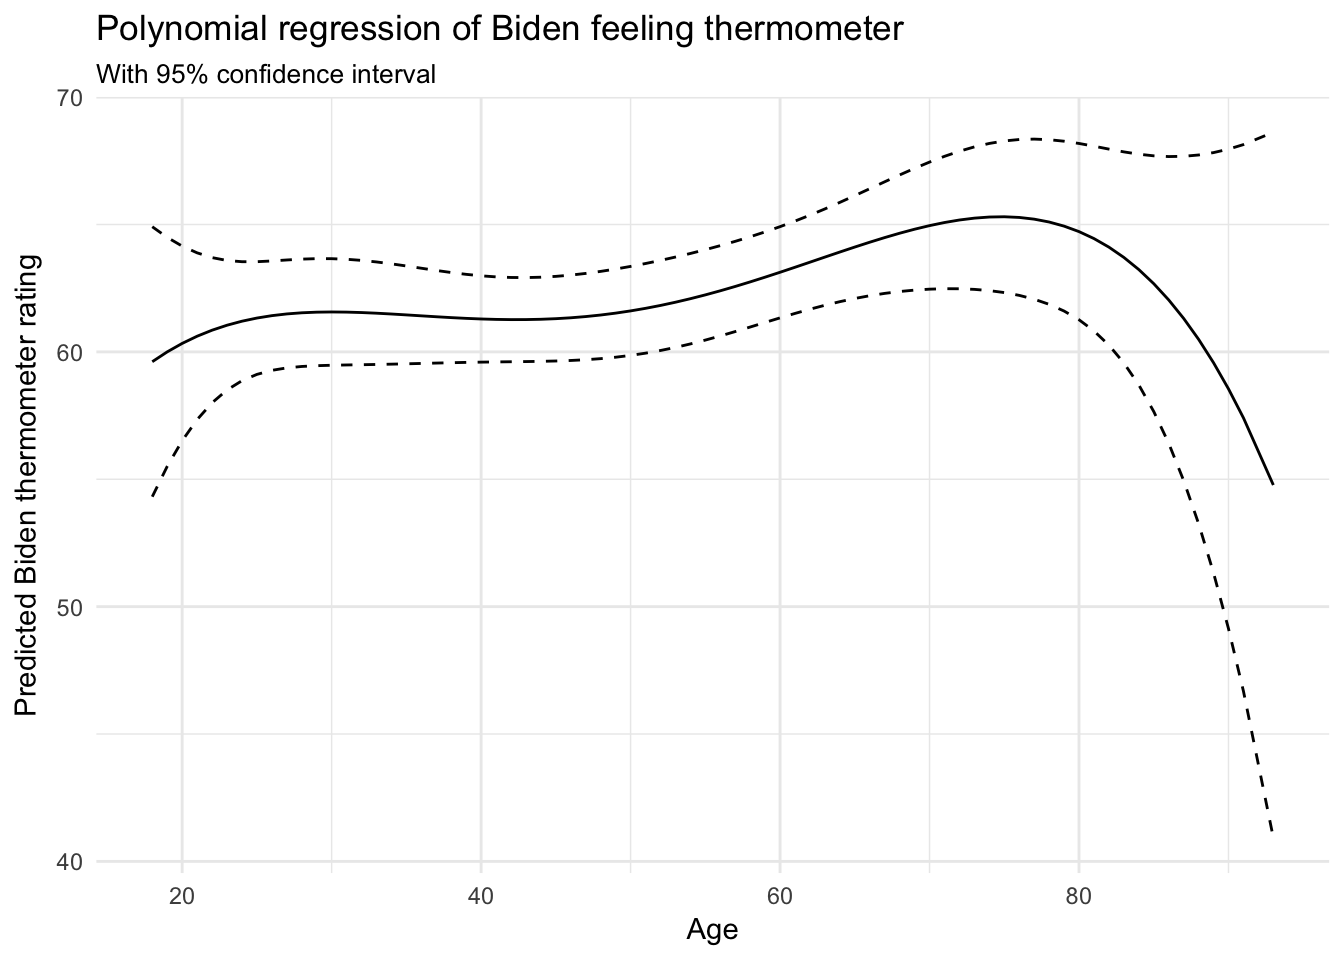
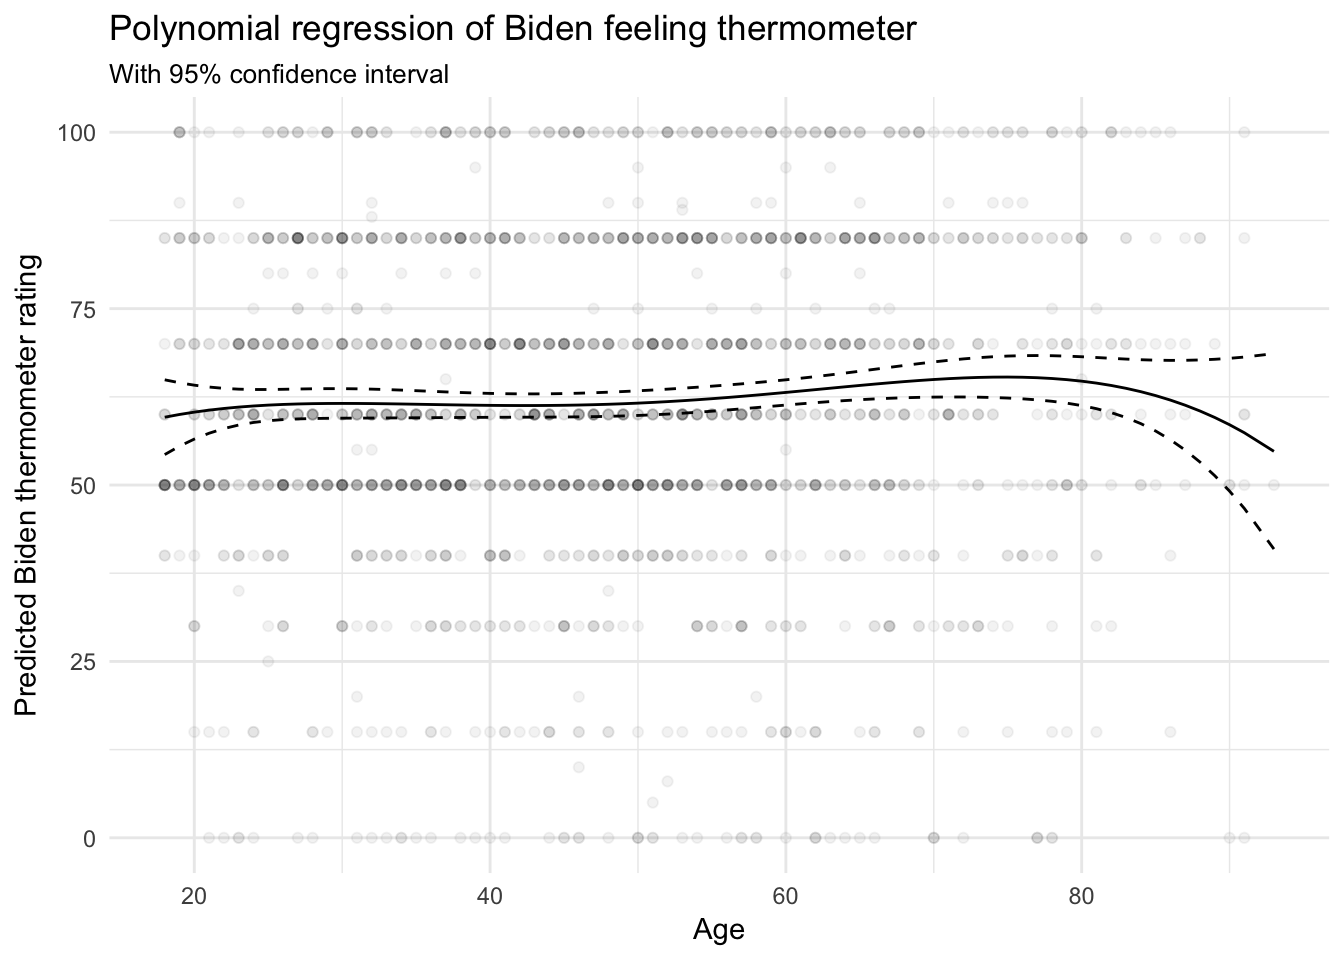
Add step functions

diff --git a/persp007_nonlinear.html b/persp007_nonlinear.html
@@ -661,15 +661,13 @@ biden_age &lt;-<span class="st"> </span><span class="kw">glm</span>(biden ~<span
 ## 4    I(age^3)  1.22e-03  9.76e-04      1.25   0.211
 ## 5    I(age^4) -6.22e-06  4.64e-06     -1.34   0.180</code></pre>
 <div class="sourceCode"><pre class="sourceCode r"><code class="sourceCode r"><span class="co"># estimate the predicted values and confidence interval</span>
-biden_pred &lt;-<span class="st"> </span>biden %&gt;%
-<span class="st">  </span><span class="kw">data_grid</span>(age)
-
-biden_pred &lt;-<span class="st"> </span><span class="kw">augment</span>(biden_age, <span class="dt">newdata =</span> biden_pred) %&gt;%
+biden_pred &lt;-<span class="st"> </span><span class="kw">augment</span>(biden_age, <span class="dt">newdata =</span> <span class="kw">data_grid</span>(biden, age)) %&gt;%
 <span class="st">  </span><span class="kw">mutate</span>(<span class="dt">pred_low =</span> .fitted -<span class="st"> </span><span class="fl">1.96</span> *<span class="st"> </span>.se.fit,
          <span class="dt">pred_high =</span> .fitted +<span class="st"> </span><span class="fl">1.96</span> *<span class="st"> </span>.se.fit)
 
 <span class="co"># plot the curve</span>
 <span class="kw">ggplot</span>(biden_pred, <span class="kw">aes</span>(age)) +
+<span class="st">  </span><span class="kw">geom_point</span>(<span class="dt">data =</span> biden, <span class="kw">aes</span>(age, biden), <span class="dt">alpha =</span> .<span class="dv">05</span>) +
 <span class="st">  </span><span class="kw">geom_line</span>(<span class="kw">aes</span>(<span class="dt">y =</span> .fitted)) +
 <span class="st">  </span><span class="kw">geom_line</span>(<span class="kw">aes</span>(<span class="dt">y =</span> pred_low), <span class="dt">linetype =</span> <span class="dv">2</span>) +
 <span class="st">  </span><span class="kw">geom_line</span>(<span class="kw">aes</span>(<span class="dt">y =</span> pred_high), <span class="dt">linetype =</span> <span class="dv">2</span>) +
@@ -789,14 +787,44 @@ mh_pred %&gt;%
 </div>
 </div>
 </div>
-<div id="log-transformations-1" class="section level1">
-<h1>Log transformations</h1>
-</div>
 <div id="step-functions" class="section level1">
 <h1>Step functions</h1>
+<p>Monotonic transformations impose a <strong>global</strong> structure on the non-linear function of <span class="math inline">\(X\)</span>. That is, the function applies across the entire range of <span class="math inline">\(X\)</span>. Instead, we may believe that the non-linear behavior of <span class="math inline">\(X\)</span> is instead a <strong>local</strong> structure that varies across the range of <span class="math inline">\(X\)</span>. We can use <strong>step functions</strong> to avoid imposing a global structure. In step functions, you split the predictor <span class="math inline">\(X\)</span> into <strong>bins</strong> and fit a different constant to each bin. This converts a continuous variable into an <strong>ordered categorical variable</strong>.</p>
+<p>We create <span class="math inline">\(c_1, c_2, \dots, c_K\)</span> cutpoints in the range of <span class="math inline">\(X\)</span>, and construct <span class="math inline">\(K + 1\)</span> new variables <span class="math inline">\(C_1(X), C_2(X), \dots, C_K(X)\)</span>. Each of the new variables is an <strong>indicator</strong> or <strong>dummy</strong> variable that returns a 1 if <span class="math inline">\(x_i\)</span> falls within the range of the cutpoints and 0 otherwise. For any given <span class="math inline">\(x_i\)</span>, the sum of these variables will be precisely <span class="math inline">\(1\)</span>. We can then fit the linear regression model to the new indicator variables as predictors:</p>
+<p><span class="math display">\[y_i = \beta_0 + \beta_1 C_1 (x_i) + \beta_2 C_2 (x_i) + \dots + \beta_K C_K (x_i) + \epsilon_i\]</span></p>
+<div id="biden-and-age-1" class="section level2">
+<h2>Biden and age</h2>
+<p>We can fit a piecewise constant regression to the Biden data, dividing age into 5 bins.</p>
+<div class="sourceCode"><pre class="sourceCode r"><code class="sourceCode r"><span class="co"># estimate model</span>
+biden_step &lt;-<span class="st"> </span><span class="kw">glm</span>(biden ~<span class="st"> </span><span class="kw">cut</span>(age, <span class="dv">5</span>), <span class="dt">data =</span> biden)
+<span class="kw">tidy</span>(biden_step)</code></pre></div>
+<pre><code>##                   term estimate std.error statistic p.value
+## 1          (Intercept)    61.68      1.11    55.369   0.000
+## 2   cut(age, 5)(33,48]    -1.28      1.52    -0.841   0.400
+## 3   cut(age, 5)(48,63]     1.32      1.52     0.869   0.385
+## 4   cut(age, 5)(63,78]     2.22      1.82     1.221   0.222
+## 5 cut(age, 5)(78,93.1]     3.59      2.91     1.232   0.218</code></pre>
+<div class="sourceCode"><pre class="sourceCode r"><code class="sourceCode r"><span class="co"># estimate the predicted values and confidence interval</span>
+biden_step_pred &lt;-<span class="st"> </span><span class="kw">augment</span>(biden_step, <span class="dt">newdata =</span> <span class="kw">data_grid</span>(biden, age)) %&gt;%
+<span class="st">  </span><span class="kw">mutate</span>(<span class="dt">pred_low =</span> .fitted -<span class="st"> </span><span class="fl">1.96</span> *<span class="st"> </span>.se.fit,
+         <span class="dt">pred_high =</span> .fitted +<span class="st"> </span><span class="fl">1.96</span> *<span class="st"> </span>.se.fit)
+
+<span class="co"># plot the curve</span>
+<span class="kw">ggplot</span>(biden_step_pred, <span class="kw">aes</span>(age)) +
+<span class="st">  </span><span class="kw">geom_point</span>(<span class="dt">data =</span> biden, <span class="kw">aes</span>(age, biden), <span class="dt">alpha =</span> .<span class="dv">05</span>) +
+<span class="st">  </span><span class="kw">geom_line</span>(<span class="kw">aes</span>(<span class="dt">y =</span> .fitted)) +
+<span class="st">  </span><span class="kw">geom_line</span>(<span class="kw">aes</span>(<span class="dt">y =</span> pred_low), <span class="dt">linetype =</span> <span class="dv">2</span>) +
+<span class="st">  </span><span class="kw">geom_line</span>(<span class="kw">aes</span>(<span class="dt">y =</span> pred_high), <span class="dt">linetype =</span> <span class="dv">2</span>) +
+<span class="st">  </span><span class="kw">labs</span>(<span class="dt">title =</span> <span class="st">&quot;Piecewise constant regression of Biden feeling thermometer&quot;</span>,
+       <span class="dt">subtitle =</span> <span class="st">&quot;With 95% confidence interval&quot;</span>,
+       <span class="dt">x =</span> <span class="st">&quot;Age&quot;</span>,
+       <span class="dt">y =</span> <span class="st">&quot;Predicted Biden thermometer rating&quot;</span>)</code></pre></div>
+<p><img src="persp007_nonlinear_files/figure-html/biden-step-1.png" width="672" /></p>
+</div>
 </div>
 <div id="regression-splines" class="section level1">
 <h1>Regression splines</h1>
+<p><strong>Regression splines</strong> extend monotonic transformations and piecewise constant regression</p>
 </div>
 <div id="smoothing-splines" class="section level1">
 <h1>Smoothing splines</h1>
@@ -826,57 +854,63 @@ mh_pred %&gt;%
 ##  tz       America/Chicago             
 ##  date     2017-02-21                  
 ## 
-##  package    * version date       source        
-##  assertthat   0.1     2013-12-06 CRAN (R 3.3.0)
-##  backports    1.0.5   2017-01-18 CRAN (R 3.3.2)
-##  broom      * 0.4.2   2017-02-13 CRAN (R 3.3.2)
-##  colorspace   1.3-2   2016-12-14 CRAN (R 3.3.2)
-##  DBI          0.5-1   2016-09-10 CRAN (R 3.3.0)
-##  devtools     1.12.0  2016-06-24 CRAN (R 3.3.0)
-##  digest       0.6.12  2017-01-27 CRAN (R 3.3.2)
-##  dplyr      * 0.5.0   2016-06-24 CRAN (R 3.3.0)
-##  evaluate     0.10    2016-10-11 CRAN (R 3.3.0)
-##  forcats      0.2.0   2017-01-23 CRAN (R 3.3.2)
-##  foreign      0.8-67  2016-09-13 CRAN (R 3.3.2)
-##  ggplot2    * 2.2.1   2016-12-30 CRAN (R 3.3.2)
-##  gtable       0.2.0   2016-02-26 CRAN (R 3.3.0)
-##  haven        1.0.0   2016-09-23 cran (@1.0.0) 
-##  hms          0.3     2016-11-22 CRAN (R 3.3.2)
-##  htmltools    0.3.5   2016-03-21 CRAN (R 3.3.0)
-##  httr         1.2.1   2016-07-03 CRAN (R 3.3.0)
-##  jsonlite     1.2     2016-12-31 CRAN (R 3.3.2)
-##  knitr      * 1.15.1  2016-11-22 cran (@1.15.1)
-##  lattice      0.20-34 2016-09-06 CRAN (R 3.3.2)
-##  lazyeval     0.2.0   2016-06-12 CRAN (R 3.3.0)
-##  lubridate    1.6.0   2016-09-13 CRAN (R 3.3.0)
-##  magrittr     1.5     2014-11-22 CRAN (R 3.3.0)
-##  memoise      1.0.0   2016-01-29 CRAN (R 3.3.0)
-##  mnormt       1.5-5   2016-10-15 CRAN (R 3.3.0)
-##  modelr     * 0.1.0   2016-08-31 CRAN (R 3.3.0)
-##  munsell      0.4.3   2016-02-13 CRAN (R 3.3.0)
-##  nlme         3.1-131 2017-02-06 CRAN (R 3.3.2)
-##  plyr         1.8.4   2016-06-08 CRAN (R 3.3.0)
-##  psych        1.6.12  2017-01-08 CRAN (R 3.3.2)
-##  purrr      * 0.2.2   2016-06-18 CRAN (R 3.3.0)
-##  R6           2.2.0   2016-10-05 CRAN (R 3.3.0)
-##  rcfss      * 0.1.3   2017-02-16 local         
-##  Rcpp         0.12.9  2017-01-14 CRAN (R 3.3.2)
-##  readr      * 1.0.0   2016-08-03 CRAN (R 3.3.0)
-##  readxl       0.1.1   2016-03-28 CRAN (R 3.3.0)
-##  reshape2     1.4.2   2016-10-22 CRAN (R 3.3.0)
-##  rmarkdown    1.3     2016-12-21 CRAN (R 3.3.2)
-##  rprojroot    1.2     2017-01-16 CRAN (R 3.3.2)
-##  rvest        0.3.2   2016-06-17 CRAN (R 3.3.0)
-##  scales       0.4.1   2016-11-09 CRAN (R 3.3.1)
-##  stringi      1.1.2   2016-10-01 CRAN (R 3.3.0)
-##  stringr      1.1.0   2016-08-19 cran (@1.1.0) 
-##  tibble     * 1.2     2016-08-26 cran (@1.2)   
-##  tidyr      * 0.6.1   2017-01-10 CRAN (R 3.3.2)
-##  tidyverse  * 1.1.1   2017-01-27 CRAN (R 3.3.2)
-##  titanic    * 0.1.0   2015-08-31 CRAN (R 3.3.0)
-##  withr        1.0.2   2016-06-20 CRAN (R 3.3.0)
-##  xml2         1.1.1   2017-01-24 CRAN (R 3.3.2)
-##  yaml         2.1.14  2016-11-12 cran (@2.1.14)</code></pre>
+##  package      * version date       source        
+##  assertthat     0.1     2013-12-06 CRAN (R 3.3.0)
+##  backports      1.0.5   2017-01-18 CRAN (R 3.3.2)
+##  broom        * 0.4.2   2017-02-13 CRAN (R 3.3.2)
+##  codetools      0.2-15  2016-10-05 CRAN (R 3.3.2)
+##  colorspace     1.3-2   2016-12-14 CRAN (R 3.3.2)
+##  DBI            0.5-1   2016-09-10 CRAN (R 3.3.0)
+##  devtools       1.12.0  2016-06-24 CRAN (R 3.3.0)
+##  digest         0.6.12  2017-01-27 CRAN (R 3.3.2)
+##  dplyr        * 0.5.0   2016-06-24 CRAN (R 3.3.0)
+##  evaluate       0.10    2016-10-11 CRAN (R 3.3.0)
+##  forcats        0.2.0   2017-01-23 CRAN (R 3.3.2)
+##  foreign        0.8-67  2016-09-13 CRAN (R 3.3.2)
+##  ggplot2      * 2.2.1   2016-12-30 CRAN (R 3.3.2)
+##  gtable         0.2.0   2016-02-26 CRAN (R 3.3.0)
+##  haven          1.0.0   2016-09-23 cran (@1.0.0) 
+##  hms            0.3     2016-11-22 CRAN (R 3.3.2)
+##  htmltools      0.3.5   2016-03-21 CRAN (R 3.3.0)
+##  httr           1.2.1   2016-07-03 CRAN (R 3.3.0)
+##  jsonlite       1.2     2016-12-31 CRAN (R 3.3.2)
+##  knitr        * 1.15.1  2016-11-22 cran (@1.15.1)
+##  labeling       0.3     2014-08-23 CRAN (R 3.3.0)
+##  lattice        0.20-34 2016-09-06 CRAN (R 3.3.2)
+##  lazyeval       0.2.0   2016-06-12 CRAN (R 3.3.0)
+##  lubridate      1.6.0   2016-09-13 CRAN (R 3.3.0)
+##  magrittr       1.5     2014-11-22 CRAN (R 3.3.0)
+##  Matrix         1.2-8   2017-01-20 CRAN (R 3.3.2)
+##  MatrixModels * 0.4-1   2015-08-22 CRAN (R 3.3.0)
+##  memoise        1.0.0   2016-01-29 CRAN (R 3.3.0)
+##  mnormt         1.5-5   2016-10-15 CRAN (R 3.3.0)
+##  modelr       * 0.1.0   2016-08-31 CRAN (R 3.3.0)
+##  munsell        0.4.3   2016-02-13 CRAN (R 3.3.0)
+##  nlme           3.1-131 2017-02-06 CRAN (R 3.3.2)
+##  plyr           1.8.4   2016-06-08 CRAN (R 3.3.0)
+##  psych          1.6.12  2017-01-08 CRAN (R 3.3.2)
+##  purrr        * 0.2.2   2016-06-18 CRAN (R 3.3.0)
+##  quantreg     * 5.29    2016-09-04 CRAN (R 3.3.0)
+##  R6             2.2.0   2016-10-05 CRAN (R 3.3.0)
+##  rcfss        * 0.1.3   2017-02-16 local         
+##  Rcpp           0.12.9  2017-01-14 CRAN (R 3.3.2)
+##  readr        * 1.0.0   2016-08-03 CRAN (R 3.3.0)
+##  readxl         0.1.1   2016-03-28 CRAN (R 3.3.0)
+##  reshape2       1.4.2   2016-10-22 CRAN (R 3.3.0)
+##  rmarkdown      1.3     2016-12-21 CRAN (R 3.3.2)
+##  rprojroot      1.2     2017-01-16 CRAN (R 3.3.2)
+##  rvest          0.3.2   2016-06-17 CRAN (R 3.3.0)
+##  scales         0.4.1   2016-11-09 CRAN (R 3.3.1)
+##  SparseM      * 1.74    2016-11-10 CRAN (R 3.3.2)
+##  stringi        1.1.2   2016-10-01 CRAN (R 3.3.0)
+##  stringr        1.1.0   2016-08-19 cran (@1.1.0) 
+##  tibble       * 1.2     2016-08-26 cran (@1.2)   
+##  tidyr        * 0.6.1   2017-01-10 CRAN (R 3.3.2)
+##  tidyverse    * 1.1.1   2017-01-27 CRAN (R 3.3.2)
+##  titanic      * 0.1.0   2015-08-31 CRAN (R 3.3.0)
+##  withr          1.0.2   2016-06-20 CRAN (R 3.3.0)
+##  xml2           1.1.1   2017-01-24 CRAN (R 3.3.2)
+##  yaml           2.1.14  2016-11-12 cran (@2.1.14)</code></pre>
 </div>
 
 <p>This work is licensed under the  <a href="http://creativecommons.org/licenses/by-nc/4.0/">CC BY-NC 4.0 Creative Commons License</a>.</p>
